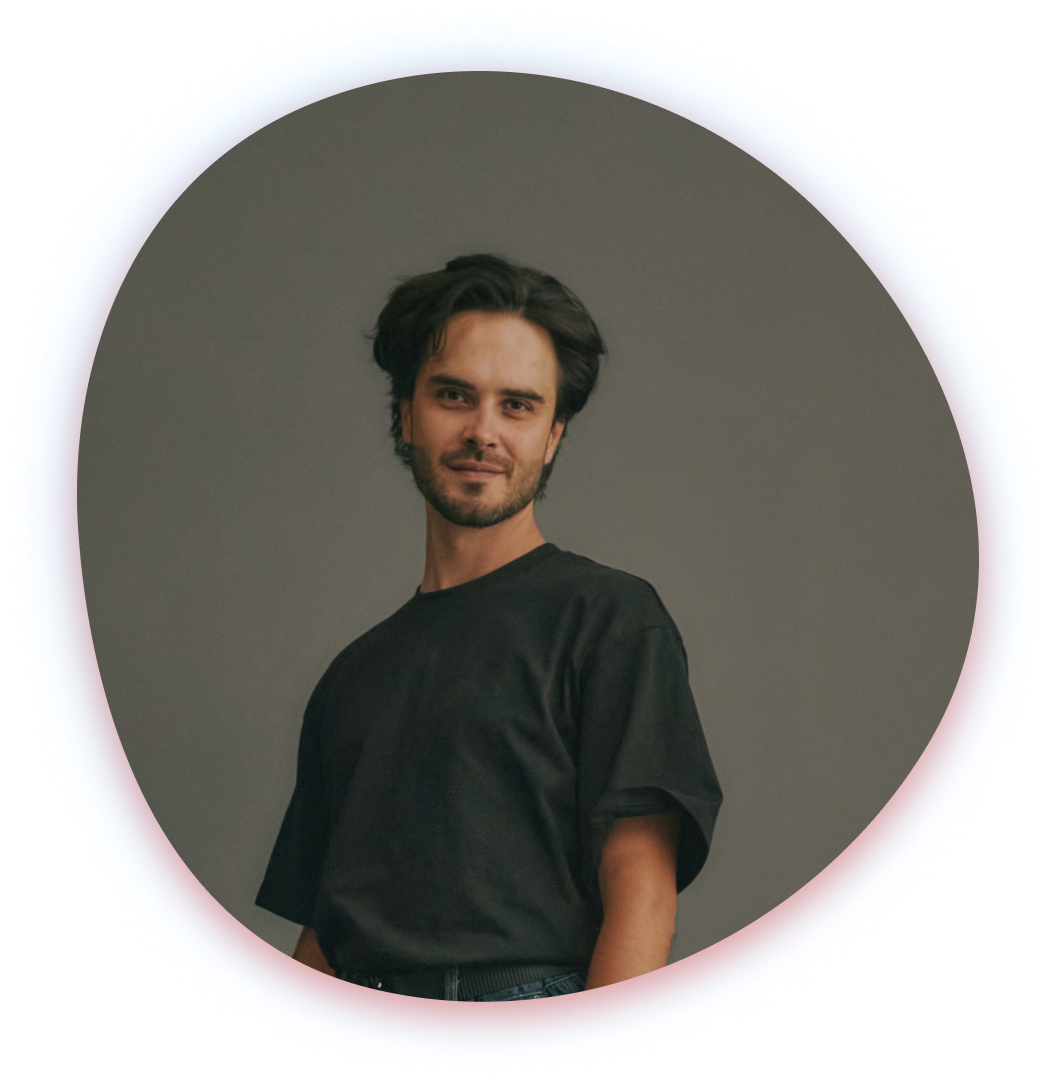
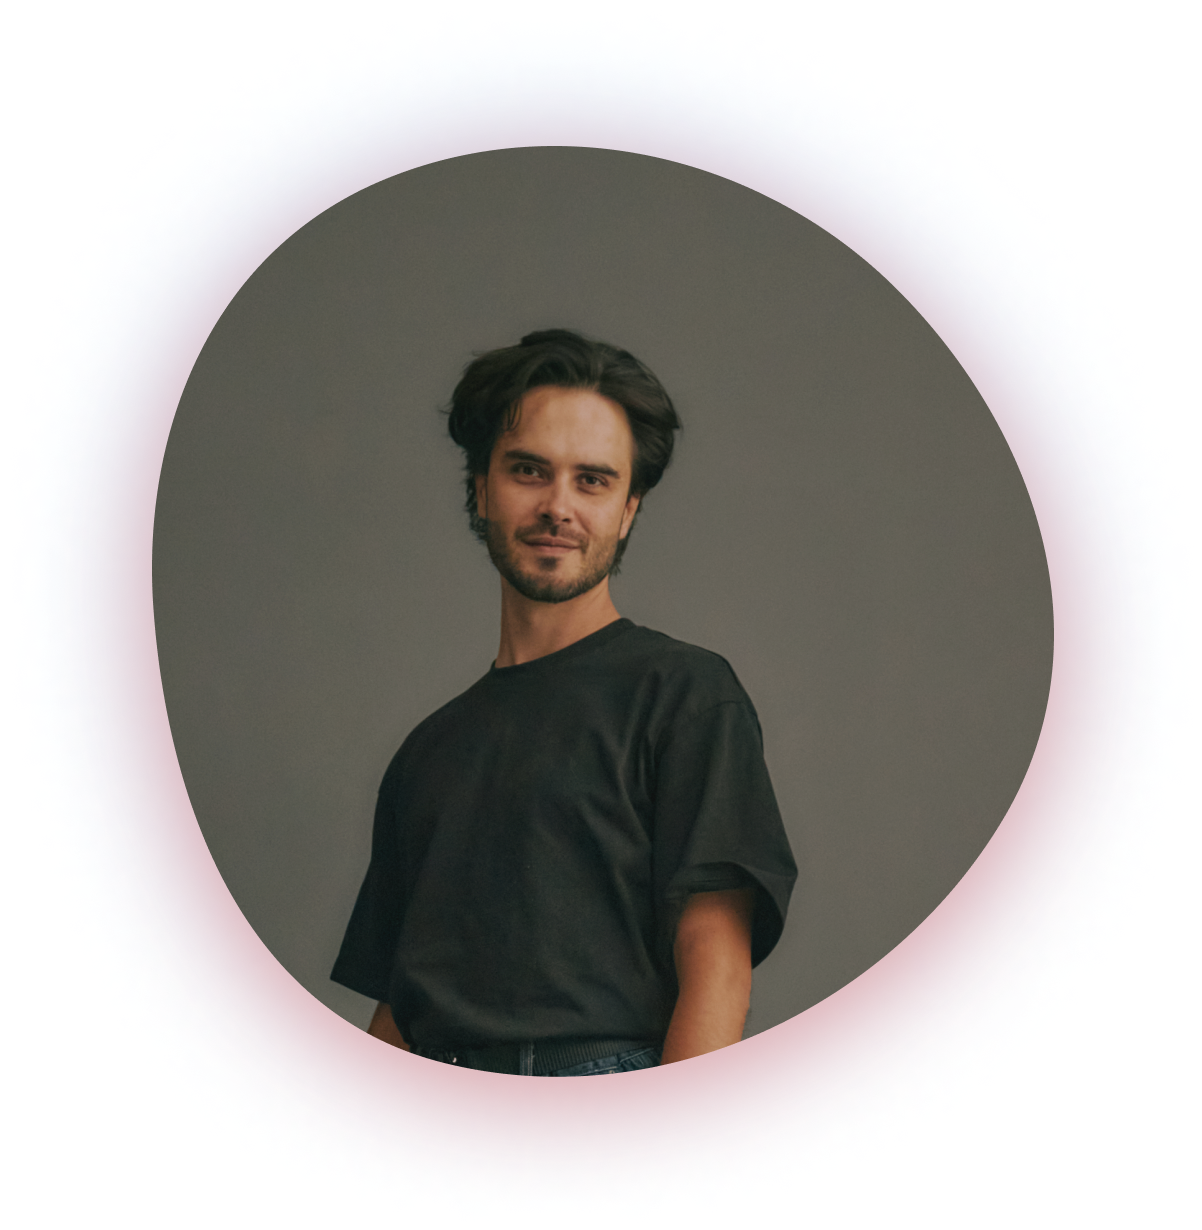
img upd

diff --git a/style.css b/style.css
@@ -137,14 +137,14 @@ p {
 
 .portrait{
     /*filter: drop-shadow(-2px 4px 74.1px #B5DEFF) drop-shadow(1px 13px 42.5px rgba(233, 118, 108, 0.67));*/
-    width: 902px;
-    height: 930px;
+    width: 990px;
+    height: 1021.58px;
     /*safari filter fix*/
     -webkit-appearance: none;
     backdrop-filter: blur(0);
     position: absolute;
     right: -150px;
-    top: -100px;
+    top: -150px;
 
     z-index: 0;
 }
